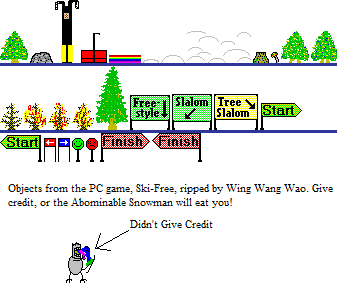
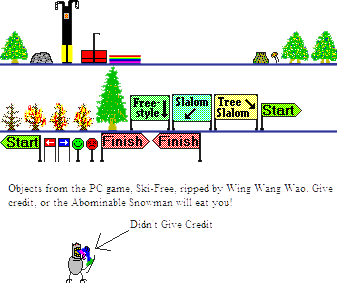
Add randomly generated small trees.

diff --git a/src/skifree.js b/src/skifree.js
@@ -16,14 +16,22 @@
         height: canvas.height
     };
     camera.x = (gameWorld.x + gameWorld.width/2) - camera.width/2;
-    camera.y = (gameWorld.y + gameWorld.height/2) - camera.height/2;
+    camera.y = (gameWorld.y + canvas.height/2) - camera.height/2;
 
     var sprites = [];
-
     var skier = Object.create(spriteObject);
     skier.x = (gameWorld.x + gameWorld.width/2) - skier.width/2;
-    skier.y = (gameWorld.y + gameWorld.height/2) - skier.height/2;
+    skier.y = (gameWorld.y + canvas.height/2) - skier.height/2;
     sprites.push(skier);
+
+    //var bigAssTree = Object.create(smallTree);
+    var staticObjs = [];
+    // creating small trees objects
+    for (var i = 0; i < 10; i++) {
+        var tree = Object.create(smallTree);
+        newRandomLocation(tree, 2, 0, 0);
+        staticObjs.push(tree);
+    }
 
     var image = new Image();
     image.addEventListener("load", loadHandler, false);
@@ -32,6 +40,10 @@
     var mirroredImage = new Image();
     mirroredImage.addEventListener("load", loadHandler, false);
     mirroredImage.src = "../images/SkiFreeStuffMirrored.png";
+
+    var objImage = new Image();
+    objImage.addEventListener("load", loadHandler, false);
+    objImage.src = "../images/SkiFreeObjects.png"
 
     var UP    = 38;
     var DOWN  = 40;
@@ -206,6 +218,40 @@
         }
     }
 
+    function isObjVisibleOrAhead(obj) {
+        var xOk =  false;
+        var yOk = false;
+
+        if ((obj.x + obj.sourceWidth) > camera.x) {
+            xOk = true;
+        }
+        if ((obj.y + obj.sourceHeight) > camera.y) {
+            yOk = true;
+        }
+        return (xOk && yOk);
+    }
+
+    function isObjVisible(obj) {
+        var xOk = false;
+        var yOk = false;
+        var xdelta = obj.x - camera.x;
+        var ydelta = obj.y - camera.y;
+        if ((xdelta > -obj.sourceWidth) && (xdelta < canvas.width)) {
+            xOk = true;
+        }
+        if ((ydelta > -obj.sourceHeight) && (ydelta < canvas.height)) {
+            yOk = true;
+        }
+        return (xOk && yOk);
+    }
+
+    function newRandomLocation(obj, factor, offsetx, offsety) {
+        var x = (Math.random() * (factor*canvas.width - obj.sourceWidth)) + camera.x + offsetx;
+        var y = (Math.random() * (factor*canvas.height - obj.sourceHeight)) +  camera.y + offsety;
+        obj.x = x;
+        obj.y = y;
+    }
+
     function update(){
         window.requestAnimationFrame(update, canvas);
         if (moveUp) {
@@ -290,6 +336,7 @@
                     break;
             }
         }
+
         skier.x = Math.max(0, Math.min(skier.x + skier.vx, gameWorld.width - skier.width));
         skier.y = Math.max(0, Math.min(skier.y + skier.vy, gameWorld.height - skier.height));
         camera.x = Math.max(0, Math.min(
@@ -300,6 +347,13 @@
             Math.floor(skier.y + (skier.height/2) - (camera.height/2)),
             gameWorld.height - camera.height
         ));
+
+        for (var i = 0; i < staticObjs.length; i++) {
+            var obj = staticObjs[i];
+            if (! isObjVisibleOrAhead(obj)) {
+                newRandomLocation(obj, 2, 0, canvas.height);
+            }
+        }
         render();
     }
 
@@ -307,19 +361,29 @@
         drawingSurface.clearRect(0, 0, canvas.width, canvas.height);
         drawingSurface.save();
         drawingSurface.translate(-camera.x, -camera.y);
-        if (sprites.length !== 0) {
-            for (var i = 0; i < sprites.length; i++) {
-                var sprite = sprites[i];
+
+        for (var i = 0; i < staticObjs.length; i++) {
+            var  obj = staticObjs[i];
+            if (isObjVisible(obj)) {
                 drawingSurface.drawImage(
-                    sprite.mirrored ? mirroredImage : image,
-                    sprite.sourceX, sprite.sourceY,
-                    sprite.sourceWidth, sprite.sourceHeight,
-                    Math.floor(sprite.x), Math.floor(sprite.y),
-                    sprite.width, sprite.height
+                    objImage, obj.sourceX, obj.sourceY,
+                    obj.sourceWidth, obj.sourceHeight,
+                    Math.floor(obj.x), Math.floor(obj.y),
+                    obj.sourceWidth, obj.sourceHeight
                 );
             }
-
         }
+        for (var i = 0; i < sprites.length; i++) {
+            var sprite = sprites[i];
+            drawingSurface.drawImage(
+                sprite.mirrored ? mirroredImage : image,
+                sprite.sourceX, sprite.sourceY,
+                sprite.sourceWidth, sprite.sourceHeight,
+                Math.floor(sprite.x), Math.floor(sprite.y),
+                sprite.width, sprite.height
+            );
+        }
+
         drawingSurface.restore();
     }
 }());

diff --git a/src/objects.js b/src/objects.js
@@ -8,6 +8,15 @@ var STRAIGHT_DOWN    = 6;
 var WALK_LEFT        = 7;
 var WALK_RIGHT       = 8;
 
+var smallTree = {
+    sourceX:      0,
+    sourceY:      30,
+    sourceWidth:  28,
+    sourceHeight: 32,
+    x:            0,
+    y:            0
+};
+
 var spriteObject = {
     sourceX:      0,
     sourceY:      6,
